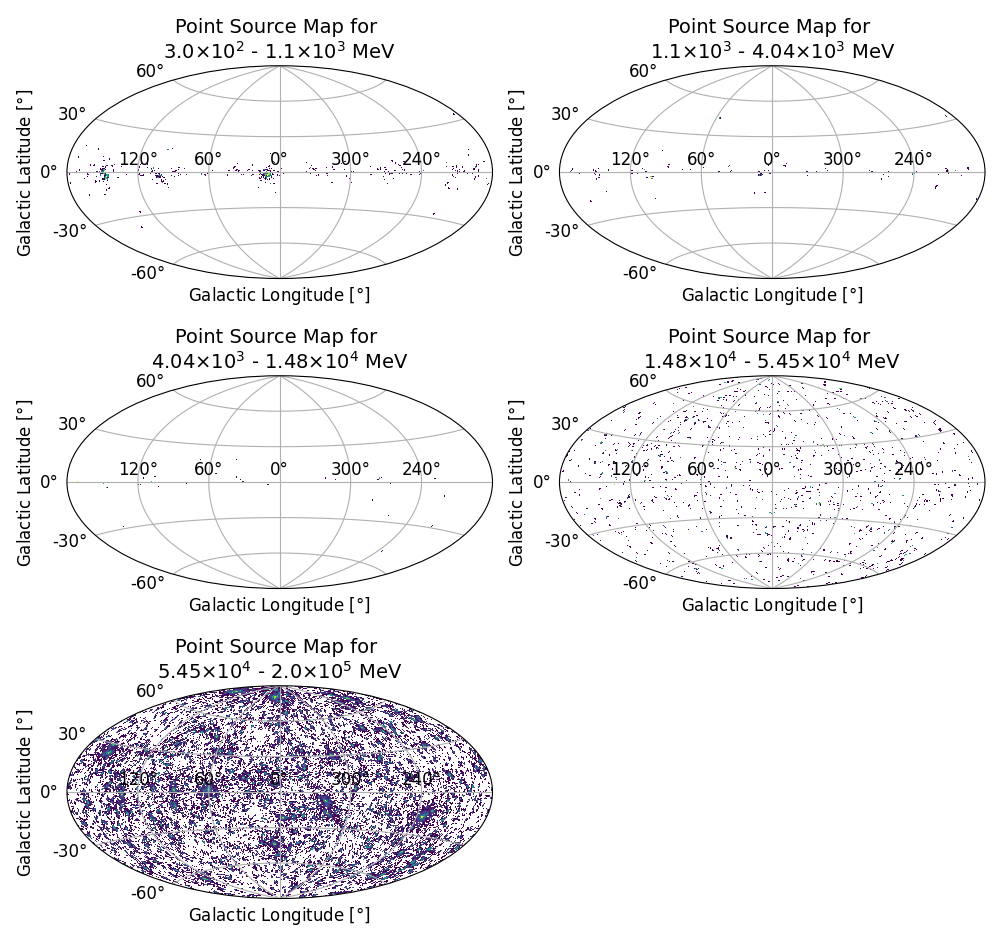
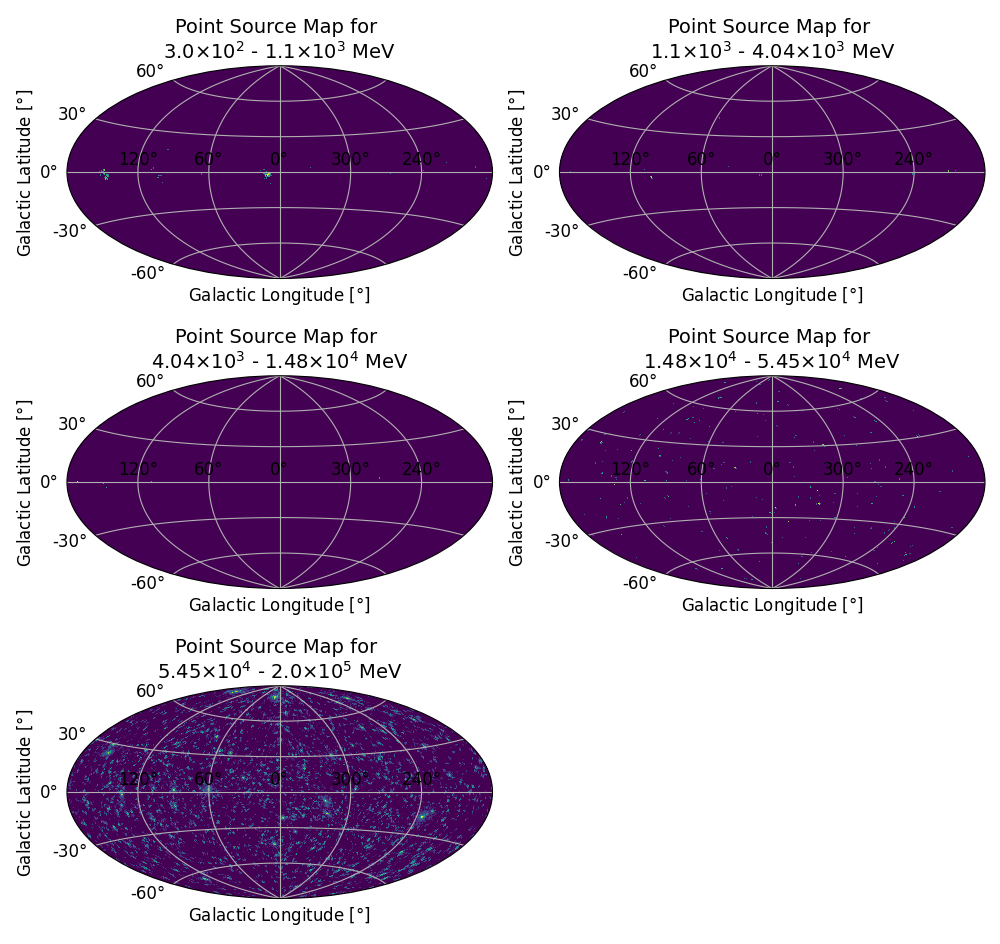
Work from yesterday - visualisation and read/write functionality.

diff --git a/code/data_simulation/create_dataset.py b/code/data_simulation/create_dataset.py
@@ -2,7 +2,7 @@ from map_generation.visualisation import plot_all_sky_map
 from map_generation.healpix_maps import (create_expected_counts_map, create_exposure_map, create_infinite_statistics_map,
                                          create_point_source_map)
 from map_generation.utils import angle_to_healpix_pixels, get_nside
-from read_write_functions import xml_parser
+from read_write_functions import save_count_maps, xml_parser
 from psfs.fit_psf import fit_point_source_psf
 from psfs.visualisation import plot_fitted_point_source_psf
 
@@ -58,10 +58,33 @@ import numpy as np
 # np.save("tmp.npy", point_source_maps)
 
 point_source_maps = np.load("tmp.npy")
-print(point_source_maps.shape)
 
 plot_all_sky_map(healpix_maps=point_source_maps, energy_bins=energy_bins, title="Point Source",
                  directory="./plots/all_sky_maps/", logarithmic=True)
+
+# Save results
+# save_count_maps(count_maps=point_source_maps, directory="./plots/count_maps/", catalog_id=1)
+
+
+
+
+
+import healpy as hp
+
+# point_source_read_in = []
+
+# for x in range(5):
+#
+#     read_in = hp.fitsfunc.read_map("./plots/count_maps/map1/count_map_bin_{}.png".format(x))
+#
+#     point_source_read_in.append(read_in)
+#
+# point_source_read_in = np.array(point_source_read_in)
+#
+# print(point_source_read_in.shape)
+#
+# plot_all_sky_map(healpix_maps=point_source_read_in, energy_bins=[300, 400, 500, 600, 700, 800], title="TEST READ",
+#                  directory="./tmp/", logarithmic=True)
 
 # WHEN REFERRING TO PDFs - USE THE TERM LIKELIHOOD INSTEAD OF PROBABILITY WHEN REFERRING TO THE Y-AXIS
 

diff --git a/code/data_simulation/read_write_functions.py b/code/data_simulation/read_write_functions.py
@@ -1,7 +1,9 @@
 from astropy import units as u
 from astropy.coordinates import SkyCoord
 from astropy.table import QTable
+import healpy as hp
 import numpy as np
+from pathlib import Path
 from source_generation.agn_spectral_parameters import energy_flux_agn
 from source_generation.pulsar_spectral_parameters import energy_flux_pulsar
 from xml.dom import minidom, Node
@@ -269,6 +271,29 @@ def pulsar_xml_writer(sources, root, xml):
         spatial.appendChild(dec)
 
         source.appendChild(spatial)
+
+
+def save_count_maps(count_maps, directory, catalog_id):
+
+    num_bins = len(count_maps)
+
+    path = directory + "map{}/".format(catalog_id)
+
+    # Create directory if it does not already exist
+    Path(path).mkdir(parents=True, exist_ok=True)
+
+    for c in range(num_bins):
+
+        filename = "count_map_bin_{}.png".format(c)
+
+        count_map = count_maps[c]
+
+        hp.fitsfunc.write_map(filename=path + filename, m=count_map, nest=False, coord="G", dtype=np.float64,
+                              overwrite=True)
+
+
+    # NOT FINISHED
+
 
 
 def save_results(simulated_agns, simulated_pulsars, file_name="./simulated_data/sources.xml"):

diff --git a/code/data_simulation/map_generation/visualisation.py b/code/data_simulation/map_generation/visualisation.py
@@ -2,6 +2,7 @@ from healpy.newvisufunc import projview
 import matplotlib.pyplot as plt
 import numpy as np
 from pathlib import Path
+import warnings
 
 
 def format_scientific_notation_label(numbers):
@@ -37,7 +38,15 @@ def plot_all_sky_map(healpix_maps, energy_bins, title: str, directory: str, loga
 
     # Plot either raw or log of data
     if logarithmic is True:
-        data = np.log(healpix_maps)
+
+        with warnings.catch_warnings():
+            warnings.simplefilter("ignore")
+
+            data = np.log(healpix_maps)
+
+            # Replace all log0 NaNs with 0
+            data = np.where(healpix_maps > 0, data, 0)
+
     else:
         data = healpix_maps
 
